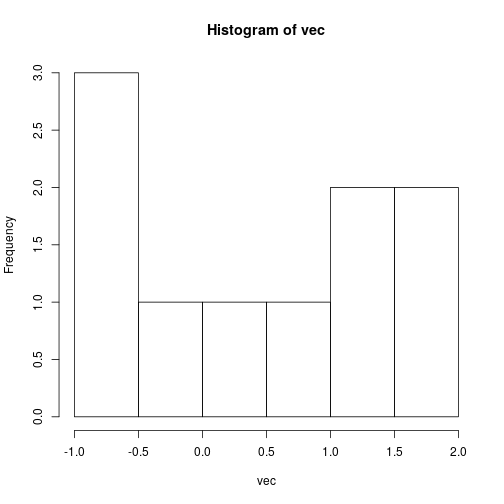
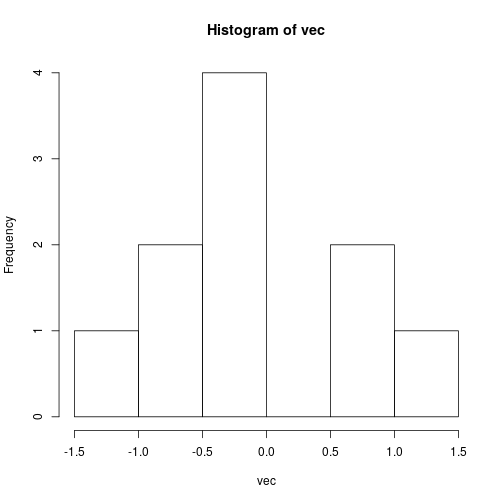
update module 3

diff --git a/modules/module3_data_slides.html b/modules/module3_data_slides.html
@@ -66,22 +66,22 @@ August 2020, UC Berkeley
 </ul>
 <div class="sourceCode"><pre class="sourceCode r"><code class="sourceCode r">mat &lt;-<span class="st"> </span><span class="kw">matrix</span>(<span class="kw">rnorm</span>(<span class="dv">12</span>), <span class="dt">nrow =</span> <span class="dv">3</span>, <span class="dt">ncol =</span> <span class="dv">4</span>)
 mat</code></pre></div>
-<pre><code>##            [,1]       [,2]        [,3]       [,4]
-## [1,] -0.4501382 -1.1316998 -2.80069975 -1.6862305
-## [2,]  0.2779905  0.4058931  0.08518162 -0.5219783
-## [3,] -0.6044647  1.6974256  0.95994621 -2.1778301</code></pre>
+<pre><code>##            [,1]       [,2]       [,3]       [,4]
+## [1,] -1.3527304 -0.9593351  1.1240426  0.4822439
+## [2,] -0.1526946  0.4025574 -0.4763796  0.8833241
+## [3,]  0.4392966  0.3450879 -0.7483551 -1.1338542</code></pre>
 <div class="sourceCode"><pre class="sourceCode r"><code class="sourceCode r">## vectorized calcs work with matrices too
 mat<span class="op">*</span><span class="dv">4</span></code></pre></div>
-<pre><code>##           [,1]      [,2]        [,3]      [,4]
-## [1,] -1.800553 -4.526799 -11.2027990 -6.744922
-## [2,]  1.111962  1.623572   0.3407265 -2.087913
-## [3,] -2.417859  6.789702   3.8397848 -8.711320</code></pre>
+<pre><code>##            [,1]      [,2]      [,3]      [,4]
+## [1,] -5.4109216 -3.837340  4.496170  1.928976
+## [2,] -0.6107783  1.610230 -1.905518  3.533296
+## [3,]  1.7571863  1.380352 -2.993420 -4.535417</code></pre>
 <div class="sourceCode"><pre class="sourceCode r"><code class="sourceCode r">mat &lt;-<span class="st"> </span><span class="kw">cbind</span>(mat, <span class="dv">1</span><span class="op">:</span><span class="dv">3</span>)
 mat</code></pre></div>
-<pre><code>##            [,1]       [,2]        [,3]       [,4] [,5]
-## [1,] -0.4501382 -1.1316998 -2.80069975 -1.6862305    1
-## [2,]  0.2779905  0.4058931  0.08518162 -0.5219783    2
-## [3,] -0.6044647  1.6974256  0.95994621 -2.1778301    3</code></pre>
+<pre><code>##            [,1]       [,2]       [,3]       [,4] [,5]
+## [1,] -1.3527304 -0.9593351  1.1240426  0.4822439    1
+## [2,] -0.1526946  0.4025574 -0.4763796  0.8833241    2
+## [3,]  0.4392966  0.3450879 -0.7483551 -1.1338542    3</code></pre>
 <div class="sourceCode"><pre class="sourceCode r"><code class="sourceCode r">## Let's convert the gapminder dataframe to a matrix:
 gm_mat &lt;-<span class="st"> </span><span class="kw">as.matrix</span>(gap[ , <span class="kw">c</span>(<span class="st">'lifeExp'</span>, <span class="st">'gdpPercap'</span>)])
 <span class="kw">head</span>(gm_mat)</code></pre></div>
@@ -92,42 +92,32 @@ gm_mat &lt;-<span class="st"> </span><span class="kw">as.matrix</span>(gap[ , <s
 ## [4,]  34.020  836.1971
 ## [5,]  36.088  739.9811
 ## [6,]  38.438  786.1134</code></pre>
-<div class="sourceCode"><pre class="sourceCode r"><code class="sourceCode r">## What do you think will happen?
-gm_mat &lt;-<span class="st"> </span><span class="kw">as.matrix</span>(gap)
-<span class="kw">head</span>(gm_mat)</code></pre></div>
-<pre><code>##      country       year   pop          continent lifeExp    gdpPercap    
-## [1,] &quot;Afghanistan&quot; &quot;1952&quot; &quot;   8425333&quot; &quot;Asia&quot;    &quot;28.80100&quot; &quot;   779.4453&quot;
-## [2,] &quot;Afghanistan&quot; &quot;1957&quot; &quot;   9240934&quot; &quot;Asia&quot;    &quot;30.33200&quot; &quot;   820.8530&quot;
-## [3,] &quot;Afghanistan&quot; &quot;1962&quot; &quot;  10267083&quot; &quot;Asia&quot;    &quot;31.99700&quot; &quot;   853.1007&quot;
-## [4,] &quot;Afghanistan&quot; &quot;1967&quot; &quot;  11537966&quot; &quot;Asia&quot;    &quot;34.02000&quot; &quot;   836.1971&quot;
-## [5,] &quot;Afghanistan&quot; &quot;1972&quot; &quot;  13079460&quot; &quot;Asia&quot;    &quot;36.08800&quot; &quot;   739.9811&quot;
-## [6,] &quot;Afghanistan&quot; &quot;1977&quot; &quot;  14880372&quot; &quot;Asia&quot;    &quot;38.43800&quot; &quot;   786.1134&quot;</code></pre>
 <p>Arrays are like matrices but can have more or fewer than two dimensions.</p>
 <div class="sourceCode"><pre class="sourceCode r"><code class="sourceCode r">arr &lt;-<span class="st"> </span><span class="kw">array</span>(<span class="kw">rnorm</span>(<span class="dv">12</span>), <span class="kw">c</span>(<span class="dv">2</span>, <span class="dv">3</span>, <span class="dv">4</span>))
 arr</code></pre></div>
 <pre><code>## , , 1
 ## 
-##            [,1]        [,2]       [,3]
-## [1,] -0.4780826 -1.71345179 -0.2966263
-## [2,] -1.2051662 -0.08199747 -0.2853094
+##            [,1]       [,2]       [,3]
+## [1,]  1.1099866  1.6752537 -0.3826415
+## [2,] -0.9471393 -0.7345831 -0.3614509
 ## 
 ## , , 2
 ## 
-##             [,1]       [,2]      [,3]
-## [1,] -0.76753350 -0.9604968 0.4930493
-## [2,]  0.02397203 -0.4896933 0.8512783
+##            [,1]       [,2]       [,3]
+## [1,] -1.0810882 -0.2904788 -0.7332405
+## [2,]  0.3568869  0.1228657 -0.2549355
 ## 
 ## , , 3
 ## 
-##            [,1]        [,2]       [,3]
-## [1,] -0.4780826 -1.71345179 -0.2966263
-## [2,] -1.2051662 -0.08199747 -0.2853094
+##            [,1]       [,2]       [,3]
+## [1,]  1.1099866  1.6752537 -0.3826415
+## [2,] -0.9471393 -0.7345831 -0.3614509
 ## 
 ## , , 4
 ## 
-##             [,1]       [,2]      [,3]
-## [1,] -0.76753350 -0.9604968 0.4930493
-## [2,]  0.02397203 -0.4896933 0.8512783</code></pre>
+##            [,1]       [,2]       [,3]
+## [1,] -1.0810882 -0.2904788 -0.7332405
+## [2,]  0.3568869  0.1228657 -0.2549355</code></pre>
 <p><strong>POLL 3A</strong>: Recall the gap dataframe has columns that are numeric and columns that are character strings. What do you think will happen if we do this:</p>
 <pre><code>as.matrix(gap)</code></pre>
 <ol style="list-style-type: decimal">
@@ -146,10 +136,10 @@ arr</code></pre></div>
 ## [1] 3 5</code></pre>
 <div class="sourceCode"><pre class="sourceCode r"><code class="sourceCode r"><span class="kw">rownames</span>(mat) &lt;-<span class="st"> </span><span class="kw">c</span>(<span class="st">'first'</span>, <span class="st">'middle'</span>, <span class="st">'last'</span>)
 mat</code></pre></div>
-<pre><code>##              [,1]       [,2]        [,3]       [,4] [,5]
-## first  -0.4501382 -1.1316998 -2.80069975 -1.6862305    1
-## middle  0.2779905  0.4058931  0.08518162 -0.5219783    2
-## last   -0.6044647  1.6974256  0.95994621 -2.1778301    3</code></pre>
+<pre><code>##              [,1]       [,2]       [,3]       [,4] [,5]
+## first  -1.3527304 -0.9593351  1.1240426  0.4822439    1
+## middle -0.1526946  0.4025574 -0.4763796  0.8833241    2
+## last    0.4392966  0.3450879 -0.7483551 -1.1338542    3</code></pre>
 <div class="sourceCode"><pre class="sourceCode r"><code class="sourceCode r"><span class="kw">attributes</span>(mat)</code></pre></div>
 <pre><code>## $dim
 ## [1] 3 5
@@ -185,12 +175,12 @@ mat</code></pre></div>
 </ol>
 <div class="sourceCode"><pre class="sourceCode r"><code class="sourceCode r">mat &lt;-<span class="st"> </span><span class="kw">matrix</span>(<span class="kw">rnorm</span>(<span class="dv">16</span>), <span class="dt">nrow =</span> <span class="dv">4</span>, <span class="dt">ncol =</span> <span class="dv">4</span>)
 mat[<span class="dv">4</span>]</code></pre></div>
-<pre><code>## [1] -1.589981</code></pre>
+<pre><code>## [1] -1.131126</code></pre>
 <div class="sourceCode"><pre class="sourceCode r"><code class="sourceCode r"><span class="kw">attributes</span>(mat) &lt;-<span class="st"> </span><span class="ot">NULL</span>
 mat</code></pre></div>
-<pre><code>##  [1] -1.2486275  1.0425324  0.9732999 -1.5899809 -0.1255844 -0.6407319
-##  [7]  0.9437610  2.3627930  0.7872134  0.2982643  1.0294583  1.1508430
-## [13]  1.7094200  0.6443996 -0.9668874  0.8818090</code></pre>
+<pre><code>##  [1]  1.9351245  0.2849309  1.7345205 -1.1311263 -0.3513012 -0.3852947
+##  [7]  0.4746752 -0.6559224  1.1369314  1.8859283  0.2870819  0.5615664
+## [13] -1.2541586  1.7161117  0.6529178 -1.3176565</code></pre>
 <div class="sourceCode"><pre class="sourceCode r"><code class="sourceCode r"><span class="kw">is.matrix</span>(mat)</code></pre></div>
 <pre><code>## [1] FALSE</code></pre>
 <p><strong>Question</strong>: What can you infer about what a matrix is in R?</p>
@@ -223,17 +213,17 @@ mat</code></pre></div>
 <div class="sourceCode"><pre class="sourceCode r"><code class="sourceCode r">vec &lt;-<span class="st"> </span><span class="kw">rnorm</span>(<span class="dv">12</span>)
 vec[<span class="kw">c</span>(<span class="dv">3</span>, <span class="dv">5</span>)] &lt;-<span class="st"> </span><span class="ot">NA</span>
 vec</code></pre></div>
-<pre><code>##  [1]  1.4047679 -0.4664612         NA -1.2973306         NA  0.6852024
-##  [7]  1.0294832 -1.6066640  0.6719722 -0.2885264  1.3368486 -0.5502406</code></pre>
+<pre><code>##  [1]  0.5869181 -0.3015855         NA  0.5059882         NA  0.3864216
+##  [7]  0.9367579  1.5289728  1.2438808 -0.5611050  0.7856337  0.1118401</code></pre>
 <div class="sourceCode"><pre class="sourceCode r"><code class="sourceCode r"><span class="kw">length</span>(vec)</code></pre></div>
 <pre><code>## [1] 12</code></pre>
 <div class="sourceCode"><pre class="sourceCode r"><code class="sourceCode r"><span class="kw">sum</span>(vec)</code></pre></div>
 <pre><code>## [1] NA</code></pre>
 <div class="sourceCode"><pre class="sourceCode r"><code class="sourceCode r"><span class="kw">sum</span>(vec, <span class="dt">na.rm =</span> <span class="ot">TRUE</span>)</code></pre></div>
-<pre><code>## [1] 0.9190514</code></pre>
+<pre><code>## [1] 5.223723</code></pre>
 <div class="sourceCode"><pre class="sourceCode r"><code class="sourceCode r"><span class="kw">hist</span>(vec)</code></pre></div>
 <div class="figure">
[2 lines of base64/hex data omitted]
 
 </div>
 <div class="sourceCode"><pre class="sourceCode r"><code class="sourceCode r"><span class="kw">is.na</span>(vec)</code></pre></div>
@@ -263,8 +253,8 @@ big</code></pre></div>
 </ul>
 <div class="sourceCode"><pre class="sourceCode r"><code class="sourceCode r">vec &lt;-<span class="st"> </span><span class="kw">c</span>(vec, <span class="ot">NULL</span>) 
 vec</code></pre></div>
-<pre><code>##  [1]  1.4047679 -0.4664612         NA -1.2973306         NA  0.6852024
-##  [7]  1.0294832 -1.6066640  0.6719722 -0.2885264  1.3368486 -0.5502406</code></pre>
+<pre><code>##  [1]  0.5869181 -0.3015855         NA  0.5059882         NA  0.3864216
+##  [7]  0.9367579  1.5289728  1.2438808 -0.5611050  0.7856337  0.1118401</code></pre>
 <div class="sourceCode"><pre class="sourceCode r"><code class="sourceCode r"><span class="kw">length</span>(vec)</code></pre></div>
 <pre><code>## [1] 12</code></pre>
 <div class="sourceCode"><pre class="sourceCode r"><code class="sourceCode r">a &lt;-<span class="st"> </span><span class="ot">NULL</span>
@@ -587,10 +577,10 @@ gap<span class="op">$</span>gdpPercap[wealthy]</code></pre></div>
 <div class="sourceCode"><pre class="sourceCode r"><code class="sourceCode r">vec &lt;-<span class="st"> </span><span class="kw">rnorm</span>(<span class="dv">20</span>)
 vec[<span class="kw">c</span>(<span class="dv">3</span>, <span class="dv">5</span>, <span class="dv">12</span><span class="op">:</span><span class="dv">14</span>)] &lt;-<span class="st"> </span><span class="dv">1</span><span class="op">:</span><span class="dv">5</span>
 vec</code></pre></div>
-<pre><code>##  [1] -0.3509853  1.1300930  1.0000000 -1.0431867  2.0000000 -0.5366348
-##  [7]  1.4230354  0.4628534 -0.5719198  0.4586054  1.3734281  3.0000000
-## [13]  4.0000000  5.0000000  0.9724336  0.3295437 -1.8980625 -1.3574882
-## [19] -0.5609654 -0.3898844</code></pre>
+<pre><code>##  [1]  0.83489728 -0.35021639  1.00000000  1.22243884  2.00000000
+##  [6] -0.05295319  1.09060578  2.00597601 -0.23491961  2.68259601
+## [11] -0.35572447  3.00000000  4.00000000  5.00000000  0.02764733
+## [16]  0.47347110  1.36413051 -1.08830752 -1.54712931 -0.48330464</code></pre>
 <div class="sourceCode"><pre class="sourceCode r"><code class="sourceCode r">mat[<span class="dv">2</span>, <span class="dv">3</span><span class="op">:</span><span class="dv">5</span>] &lt;-<span class="st"> </span><span class="dv">1</span><span class="op">:</span><span class="dv">3</span>
 mat</code></pre></div>
 <pre><code>##   [,1] [,2] [,3] [,4] [,5]

diff --git a/modules/module3_data.html b/modules/module3_data.html
@@ -218,30 +218,30 @@ hr {
 mat
 </code></pre>
 
-<pre><code>##           [,1]       [,2]        [,3]      [,4]
-## [1,] 0.5087513 -0.5717613  0.06763849 -1.105580
-## [2,] 1.4005704  0.4496954 -0.24094852 -0.582063
-## [3,] 0.3350474  0.1888863 -1.14030238  1.071458
+<pre><code>##           [,1]       [,2]         [,3]       [,4]
+## [1,] -0.481582 -2.1046430 -0.008293464 -1.2956350
+## [2,]  0.340556 -0.5810928  0.061994657 -1.8522678
+## [3,]  1.426515 -2.0738798  0.082409967  0.9615096
 </code></pre>
 
 <pre><code class="r">## vectorized calcs work with matrices too
 mat*4
 </code></pre>
 
-<pre><code>##          [,1]       [,2]       [,3]      [,4]
-## [1,] 2.035005 -2.2870451  0.2705540 -4.422319
-## [2,] 5.602282  1.7987816 -0.9637941 -2.328252
-## [3,] 1.340189  0.7555453 -4.5612095  4.285831
+<pre><code>##           [,1]      [,2]        [,3]      [,4]
+## [1,] -1.926328 -8.418572 -0.03317386 -5.182540
+## [2,]  1.362224 -2.324371  0.24797863 -7.409071
+## [3,]  5.706058 -8.295519  0.32963987  3.846038
 </code></pre>
 
 <pre><code class="r">mat &lt;- cbind(mat, 1:3)
 mat
 </code></pre>
 
-<pre><code>##           [,1]       [,2]        [,3]      [,4] [,5]
-## [1,] 0.5087513 -0.5717613  0.06763849 -1.105580    1
-## [2,] 1.4005704  0.4496954 -0.24094852 -0.582063    2
-## [3,] 0.3350474  0.1888863 -1.14030238  1.071458    3
+<pre><code>##           [,1]       [,2]         [,3]       [,4] [,5]
+## [1,] -0.481582 -2.1046430 -0.008293464 -1.2956350    1
+## [2,]  0.340556 -0.5810928  0.061994657 -1.8522678    2
+## [3,]  1.426515 -2.0738798  0.082409967  0.9615096    3
 </code></pre>
 
 <pre><code class="r">## Let&#39;s convert the gapminder dataframe to a matrix:
@@ -258,20 +258,6 @@ head(gm_mat)
 ## [6,]  38.438  786.1134
 </code></pre>
 
-<pre><code class="r">## What do you think will happen?
-gm_mat &lt;- as.matrix(gap)
-head(gm_mat)
-</code></pre>
-
-<pre><code>##      country       year   pop          continent lifeExp    gdpPercap    
-## [1,] &quot;Afghanistan&quot; &quot;1952&quot; &quot;   8425333&quot; &quot;Asia&quot;    &quot;28.80100&quot; &quot;   779.4453&quot;
-## [2,] &quot;Afghanistan&quot; &quot;1957&quot; &quot;   9240934&quot; &quot;Asia&quot;    &quot;30.33200&quot; &quot;   820.8530&quot;
-## [3,] &quot;Afghanistan&quot; &quot;1962&quot; &quot;  10267083&quot; &quot;Asia&quot;    &quot;31.99700&quot; &quot;   853.1007&quot;
-## [4,] &quot;Afghanistan&quot; &quot;1967&quot; &quot;  11537966&quot; &quot;Asia&quot;    &quot;34.02000&quot; &quot;   836.1971&quot;
-## [5,] &quot;Afghanistan&quot; &quot;1972&quot; &quot;  13079460&quot; &quot;Asia&quot;    &quot;36.08800&quot; &quot;   739.9811&quot;
-## [6,] &quot;Afghanistan&quot; &quot;1977&quot; &quot;  14880372&quot; &quot;Asia&quot;    &quot;38.43800&quot; &quot;   786.1134&quot;
-</code></pre>
-
 <p>Arrays are like matrices but can have more or fewer than two dimensions.</p>
 
 <pre><code class="r">arr &lt;- array(rnorm(12), c(2, 3, 4))
@@ -280,27 +266,27 @@ arr
 
 <pre><code>## , , 1
 ## 
-##           [,1]      [,2]      [,3]
-## [1,] -0.649705 -1.565857 0.7497179
-## [2,] -0.590096  1.976604 1.4212351
+##            [,1]       [,2]      [,3]
+## [1,]  1.1951879 -0.9162599  1.009461
+## [2,] -0.4170415  0.9920177 -1.576297
 ## 
 ## , , 2
 ## 
-##           [,1]        [,2]     [,3]
-## [1,] -1.230852 -0.01310700 1.024017
-## [2,] -1.553739  0.07081892 1.191749
+##            [,1]       [,2]      [,3]
+## [1,] -0.2088087  0.2959710  1.502635
+## [2,] -0.6658709 -0.5512749 -0.196694
 ## 
 ## , , 3
 ## 
-##           [,1]      [,2]      [,3]
-## [1,] -0.649705 -1.565857 0.7497179
-## [2,] -0.590096  1.976604 1.4212351
+##            [,1]       [,2]      [,3]
+## [1,]  1.1951879 -0.9162599  1.009461
+## [2,] -0.4170415  0.9920177 -1.576297
 ## 
 ## , , 4
 ## 
-##           [,1]        [,2]     [,3]
-## [1,] -1.230852 -0.01310700 1.024017
-## [2,] -1.553739  0.07081892 1.191749
+##            [,1]       [,2]      [,3]
+## [1,] -0.2088087  0.2959710  1.502635
+## [2,] -0.6658709 -0.5512749 -0.196694
 </code></pre>
 
 <p><strong>POLL 3A</strong>: Recall the gap dataframe has columns that are numeric and columns that are character strings. What do you think will happen if we do this:</p>
@@ -329,10 +315,10 @@ arr
 mat
 </code></pre>
 
-<pre><code>##             [,1]       [,2]        [,3]      [,4] [,5]
-## first  0.5087513 -0.5717613  0.06763849 -1.105580    1
-## middle 1.4005704  0.4496954 -0.24094852 -0.582063    2
-## last   0.3350474  0.1888863 -1.14030238  1.071458    3
+<pre><code>##             [,1]       [,2]         [,3]       [,4] [,5]
+## first  -0.481582 -2.1046430 -0.008293464 -1.2956350    1
+## middle  0.340556 -0.5810928  0.061994657 -1.8522678    2
+## last    1.426515 -2.0738798  0.082409967  0.9615096    3
 </code></pre>
 
 <pre><code class="r">attributes(mat)
@@ -393,16 +379,17 @@ mat
 mat[4]
 </code></pre>
 
-<pre><code>## [1] -0.2310743
+<pre><code>## [1] -1.305258
 </code></pre>
 
 <pre><code class="r">attributes(mat) &lt;- NULL
 mat
 </code></pre>
 
-<pre><code>##  [1]  0.7200865  0.2488117  0.7597021 -0.2310743  0.9713264 -1.2413158
-##  [7]  1.0945273  0.9399530  0.2175383 -0.8257417  1.2523792 -0.3887348
-## [13]  0.7986413 -0.9579226 -0.4876983  0.1589679
+<pre><code>##  [1] -0.4477040185 -1.6331689407 -1.5804487718 -1.3052581433  0.9541392656
+##  [6] -0.0008445173 -0.9003167547  0.4970581737 -1.2623887486  1.3608039002
+## [11]  1.5782399412  0.9772836512  0.6077860951 -0.0519016458  0.5389810885
+## [16] -0.6884924495
 </code></pre>
 
 <pre><code class="r">is.matrix(mat)
@@ -464,8 +451,9 @@ vec[c(3, 5)] &lt;- NA
 vec
 </code></pre>
 
-<pre><code>##  [1]  1.7672515  1.0988651         NA  0.9962225         NA -0.6006876
-##  [7] -0.4655388  0.3101168 -0.5101262  1.1280340 -0.6910359  1.8866761
+<pre><code>##  [1] -0.33731763 -0.06636709          NA  1.00976511          NA
+##  [6] -0.02998364 -0.58027560 -0.34282230  0.62072470 -1.48731289
+## [11] -0.77350079  0.74527940
 </code></pre>
 
 <pre><code class="r">length(vec)
@@ -483,13 +471,13 @@ vec
 <pre><code class="r">sum(vec, na.rm = TRUE)
 </code></pre>
 
-<pre><code>## [1] 4.919777
+<pre><code>## [1] -1.241811
 </code></pre>
 
 <pre><code class="r">hist(vec)
 </code></pre>
 
[2 lines of base64/hex data omitted]
 
 <pre><code class="r">is.na(vec)
 </code></pre>
@@ -550,8 +538,9 @@ big
 vec
 </code></pre>
 
-<pre><code>##  [1]  1.7672515  1.0988651         NA  0.9962225         NA -0.6006876
-##  [7] -0.4655388  0.3101168 -0.5101262  1.1280340 -0.6910359  1.8866761
+<pre><code>##  [1] -0.33731763 -0.06636709          NA  1.00976511          NA
+##  [6] -0.02998364 -0.58027560 -0.34282230  0.62072470 -1.48731289
+## [11] -0.77350079  0.74527940
 </code></pre>
 
 <pre><code class="r">length(vec)
@@ -1048,10 +1037,10 @@ vec[c(3, 5, 12:14)] &lt;- 1:5
 vec
 </code></pre>
 
-<pre><code>##  [1] -0.16178580  0.36014597  1.00000000 -0.94205703  2.00000000
-##  [6]  0.87479093  1.56636187  0.84818641  0.01931646 -0.27279744
-## [11] -0.25144770  3.00000000  4.00000000  5.00000000 -0.79517350
-## [16]  1.54112146  0.06215768 -0.08055245 -0.73035703  0.74141095
+<pre><code>##  [1]  0.098997565  0.084570270  1.000000000 -0.384795716  2.000000000
+##  [6] -0.013964135 -0.085095889 -0.009697543  1.052130541 -1.498475424
+## [11]  0.917097878  3.000000000  4.000000000  5.000000000 -0.268336674
+## [16] -0.826818791 -0.474352568  0.092170649  1.406809924 -1.016631286
 </code></pre>
 
 <pre><code class="r">mat[2, 3:5] &lt;- 1:3
